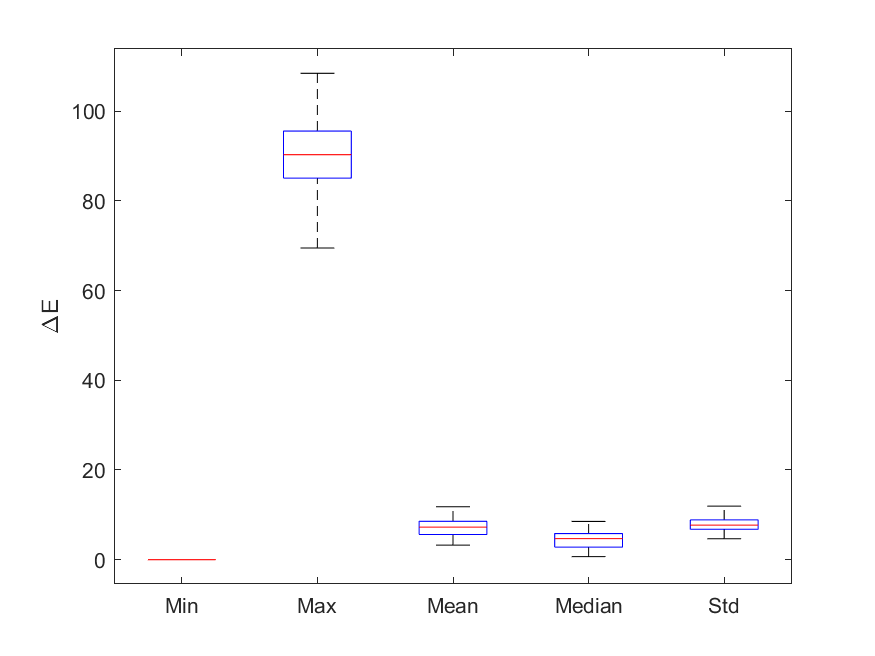
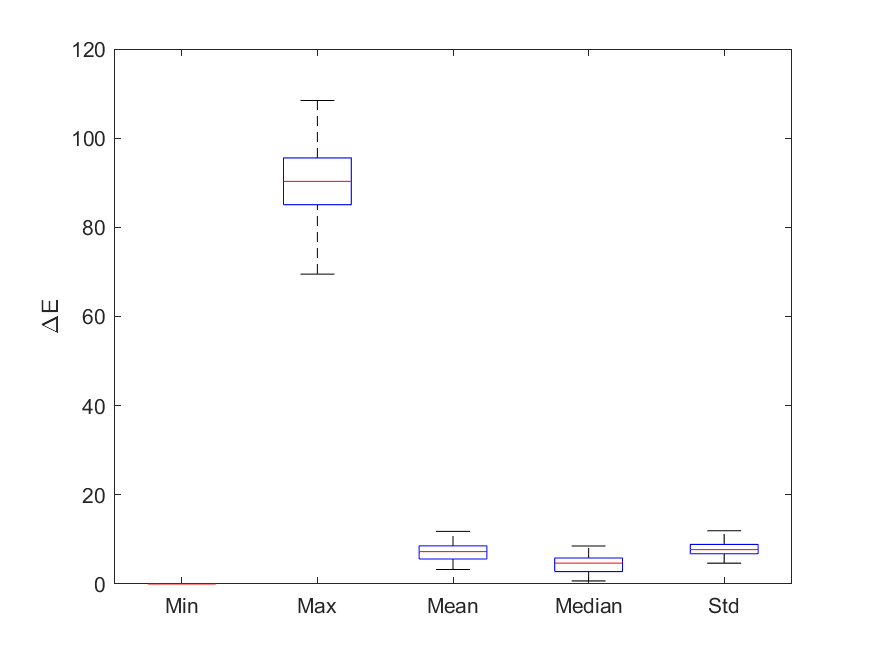
iterator_corr registration accuracy

diff --git a/gen4/iterate_dE.m b/gen4/iterate_dE.m
@@ -1,12 +1,20 @@
 classdef iterate_dE < iterate
     %UNTITLED Summary of this class goes here
-    %   Detailed explanation goes here
+    %   8-24-2020: added CDF plots
     
     properties
         D
+        H = {}
     end
     
     methods (Static)
+
+        function cdf_plot
+            id = iterate_dE;
+            id.go;
+            id.plot_cdf;
+        end
+        
         function test
             id = iterate_dE;
             id.go
@@ -30,6 +38,27 @@ classdef iterate_dE < iterate
             
         end
         
+        function plot_cdf (obj)
+
+            for i = 1:100
+                clf
+                h = histogram(obj.D(i,:),[0:100],'Normalization','cdf');
+                obj.H{i} = h.Values;
+            end
+            
+            clf
+            hold on
+            for i = 1:100
+                plot(obj.H{i})
+            end
+            xlabel('{\Delta}E')
+            ylabel('Cumulative Density')
+            axis square
+            axis([0 100 0 1])
+            
+            saveas(gcf,'cdfplot.png');            
+        end
+        
         function stats (obj)
         % generate statistics of 100 ROIs
             Dmin = min(obj.D,[],2)
@@ -42,6 +71,7 @@ classdef iterate_dE < iterate
             xticklabels({'Min','Max','Mean','Median','Std'})
             ylabel('{\Delta}E')
             
+            axis([0.5 5.5 0 120])
             saveas(gcf,'boxplot.png');
         end
         

diff --git a/gen4/iterate_corr.m b/gen4/iterate_corr.m
@@ -1,0 +1,52 @@
+classdef iterate_corr < iterate
+    %UNTITLED Summary of this class goes here
+    %   8-24-2020: added CDF plots
+    
+    properties
+        D
+    end
+    
+    methods (Static)
+
+        function cdf_plot
+            id = iterate_dE;
+            id.go;
+
+%{
+a = iterate_corr
+d1 = a.D;
+a = iterate_corr
+d2 = a.D;
+a = iterate_corr
+d3 = a.D;
+boxplot([d1 d2 d3])
+xticklabels({'CMU-1','CMU-2','CMU-3'})
+axis([0.5 3.5 0 1])
+ylabel('Corr.')
+axis square
+saveas(gcf,'correlation.png')            
+        %}
+        end
+        
+    end
+    
+    methods
+        
+        function obj = iterate_corr
+            % it's hard to initiate D with zeros() in the constructor because
+            % the superclass constructor may be invoked late
+            obj.D = zeros(length(obj.n_roi_vector),1);
+        end
+        
+        function do_process_two_im (obj, i, im1, im2)
+                
+            imgs1 = rgb2gray(im1);
+            imgs2 = rgb2gray(im2);
+            
+            obj.D(i,:) = corr2(imgs1,imgs2);
+            
+        end
+        
+    end
+end
+

diff --git a/gen4/gif_animate.m b/gen4/gif_animate.m
@@ -1,0 +1,30 @@
+% GIF flipping between two images
+function gif_animate (fn1, fn2)
+
+fn3 = 'test.gif'
+
+% Capture the plot as an image
+im1 = imread(fn1);
+image(im1);
+axis image
+axis off
+title(fn1)
+frame = getframe(gcf);
+im = frame2im(frame);
+[imind,cm] = rgb2ind(im,256);
+
+% Write frames to the GIF File
+imwrite(imind,cm,fn3,'gif','Loopcount',inf);
+
+% Capture the plot as an image
+im2 = imread(fn2);
+image(im2);
+axis image
+axis off
+title(fn2)
+frame = getframe(gcf);
+im = frame2im(frame);
+[imind,cm] = rgb2ind(im,256);
+
+imwrite(imind,cm,fn3,'gif','WriteMode','append');
+end
